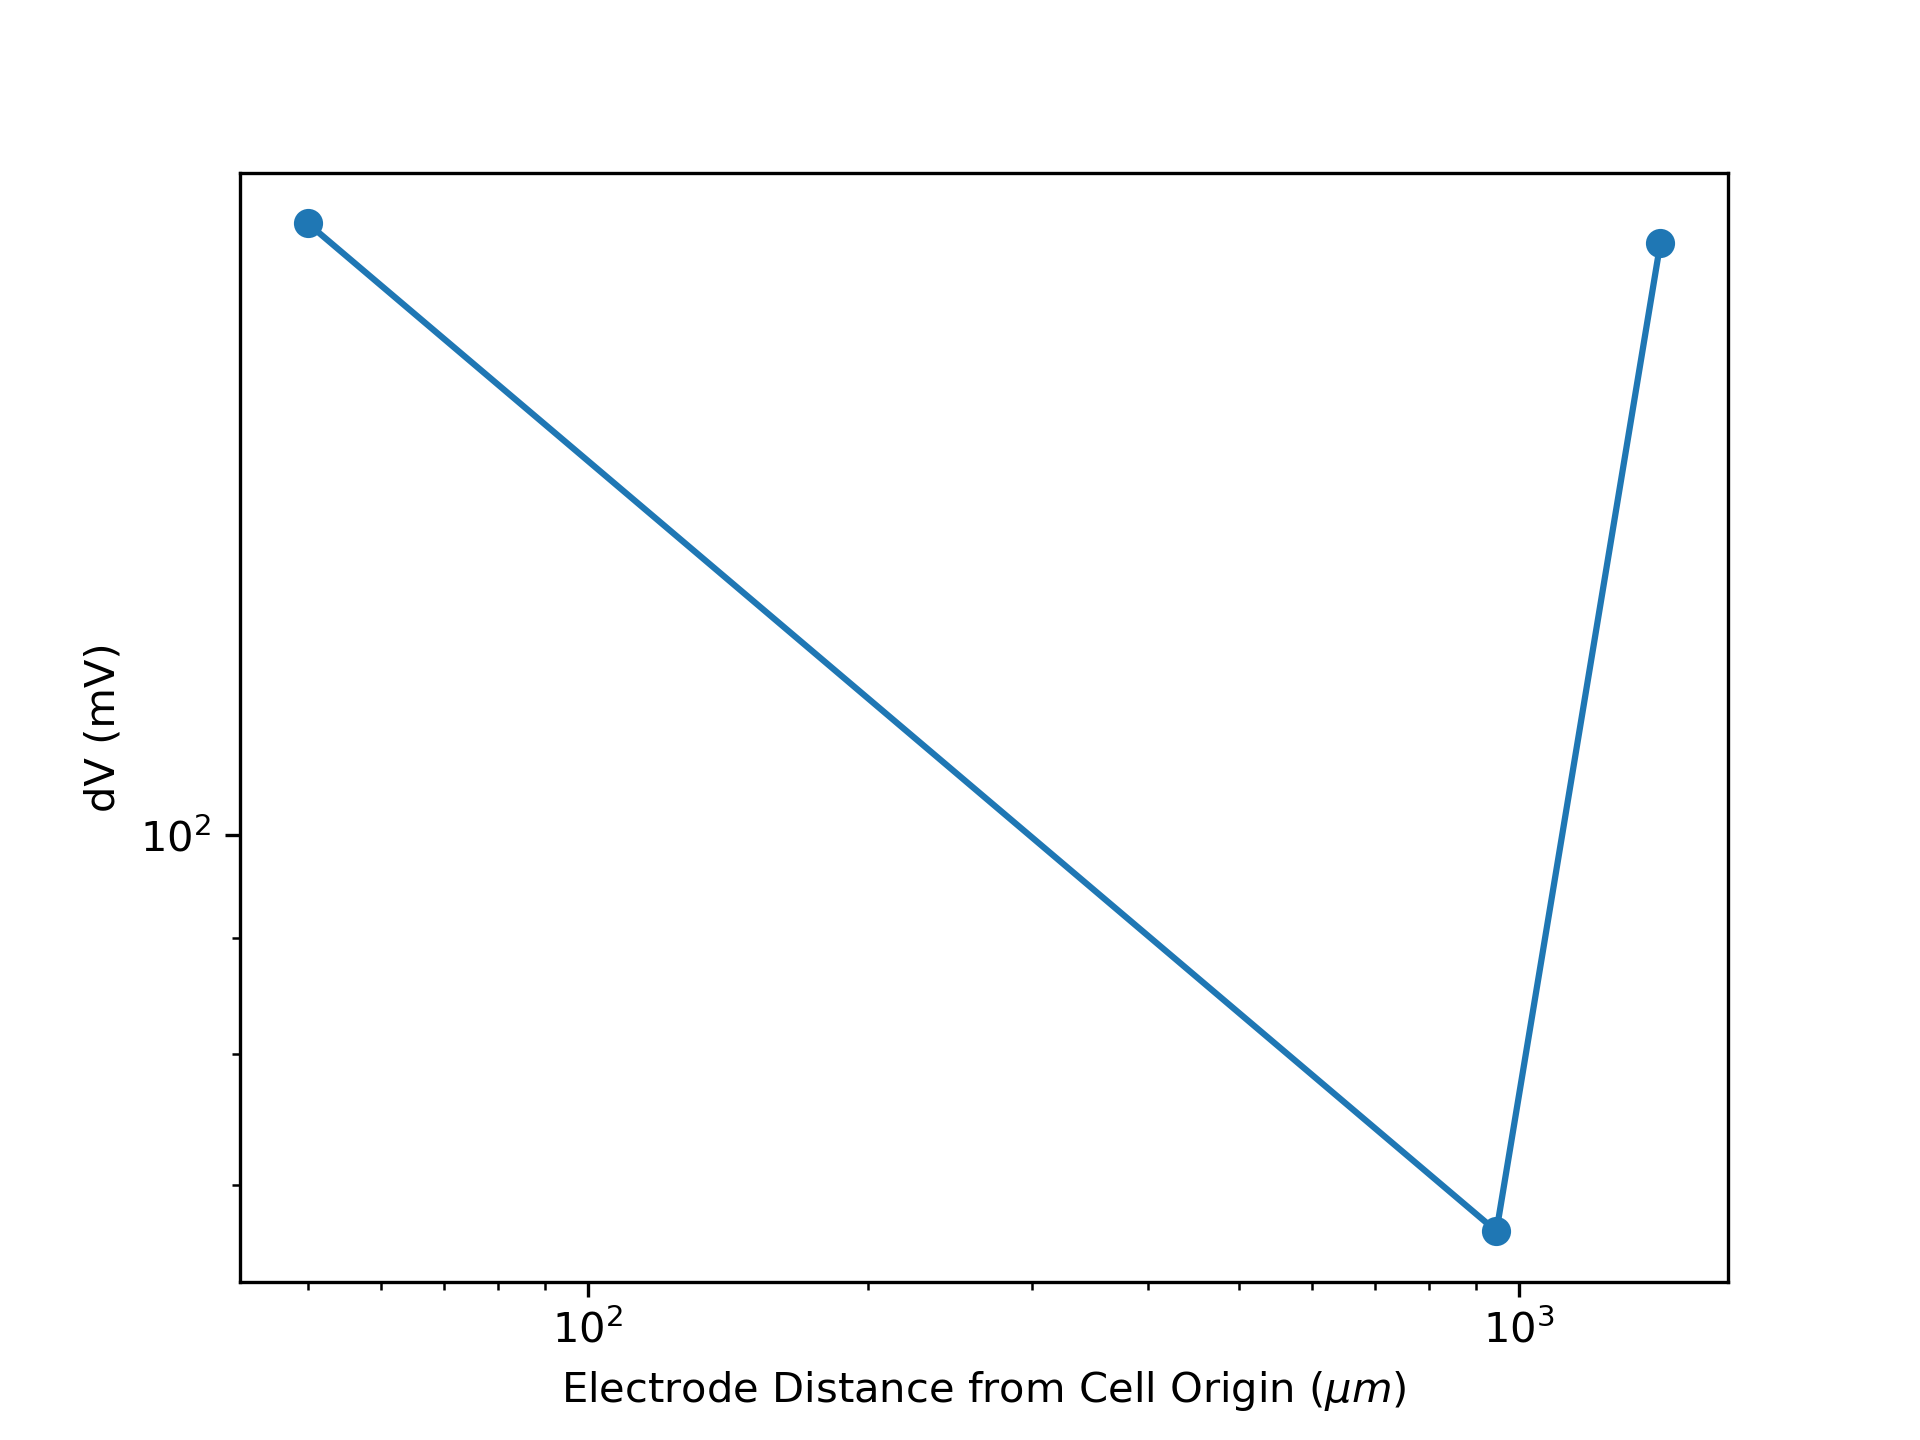
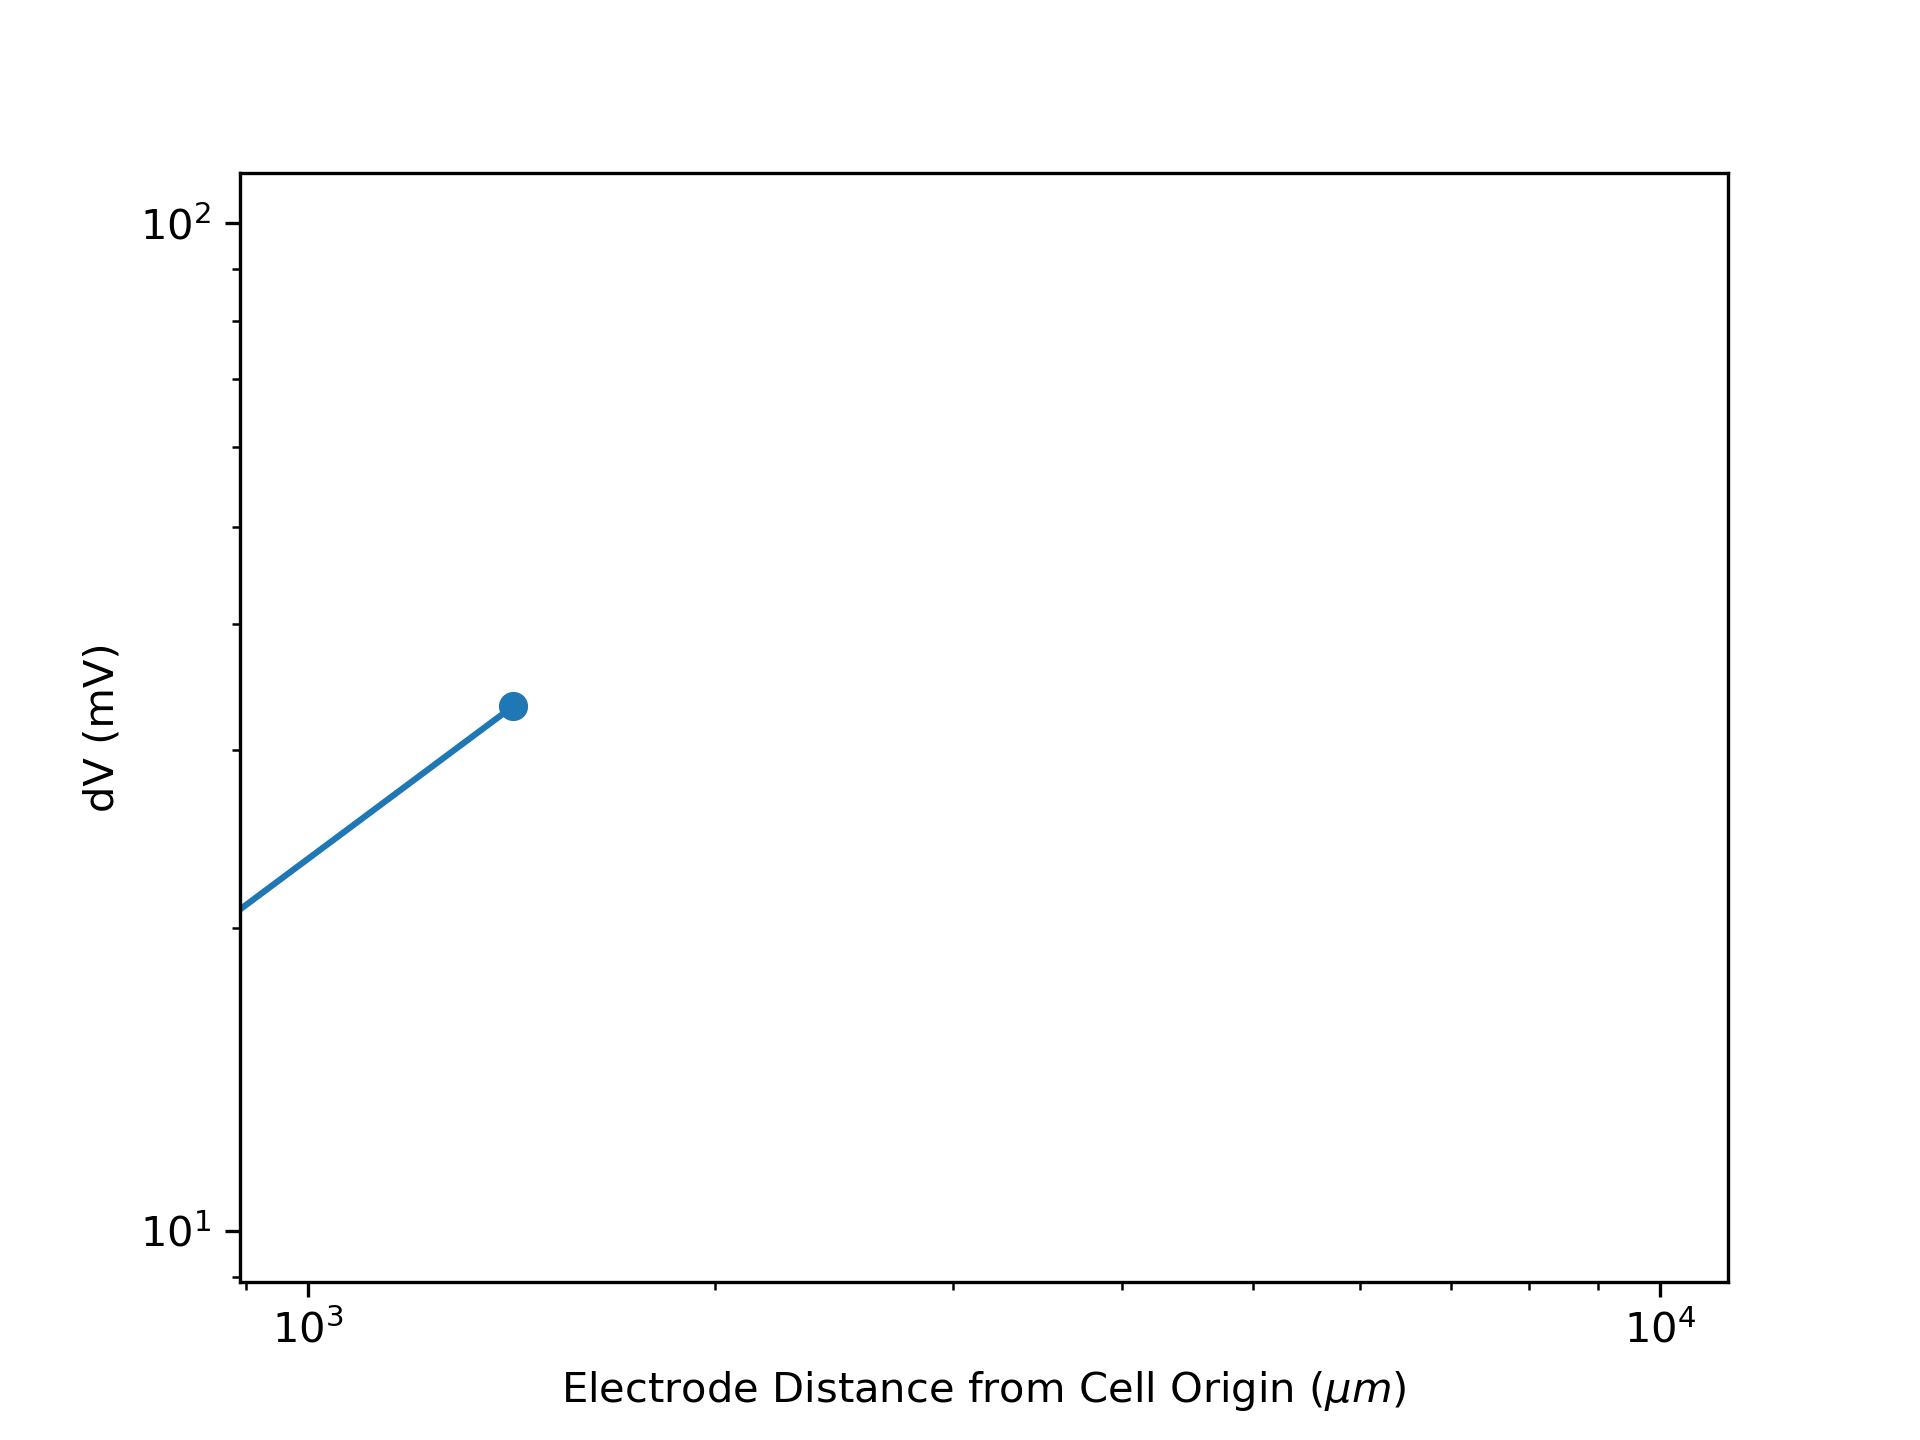
Changing simulation to only run one simulation per run of run_ext_sim(), added return sim_name(), separated out set_electrode_pos from class

diff --git a/main.py b/main.py
@@ -15,9 +15,6 @@ from mpi4py import MPI
 """
  transmembrane current i soma/utvalgte punkter som func av tid x
 membran pot som func av tid
-
- snapshots ved start og stop
-
 """
 
 
@@ -37,6 +34,11 @@ class ExternalPotentialSim:
         self.cell_dist_to_top = cell_params['cell_dist_to_top']
         self.x_shift = cell_params['x_shift']
         self.z_rot = cell_params['z_rot']
+
+    def return_sim_name(self):
+        sim_name = f'{self.cell_name}_x_shift={self.x_shift}_z_rot={self.z_rot}_{self.amp}mA_elec_pos={elec_pos}'
+
+        return sim_name
 
     def return_cell(self, cell_models_folder, z=-3, passive=True):
 
@@ -123,36 +125,9 @@ class ExternalPotentialSim:
 
         for i in range(com_coords.shape[0]):
             x, y, z = com_coords[i, :]
-            print(i, cell.get_closest_idx(x, y, z))
             measure_pnts.append(cell.get_closest_idx(x, y, z))
 
         self.measure_pnts = np.array(measure_pnts)
-
-    def set_electrode_pos(self, cell, elec_positions=np.array([])):
-        """
-        Parameters:
-        cell: LFPy Cell object
-        elec_positions: Electrode positions as a numpy array
-
-        Returns:
-
-        """
-
-        # Automatically setting electrode at a given distance from the measurement points
-        if elec_positions.size == 0:
-
-            mp = self.measure_pnts[0]
-            elec_positions = np.array([int(cell.x[mp].mean()) - 50, int(cell.y[mp].mean()),
-                                       int(cell.z[mp].mean())], dtype=float)
-
-            for mp in self.measure_pnts[1:]:
-
-                ep = np.array([int(cell.x[mp].mean()) - 50, int(cell.y[mp].mean()),
-                               int(cell.z[mp].mean())], dtype=float)
-
-                elec_positions = np.vstack((elec_positions, ep))
-
-        return elec_positions
 
     def _calc_point_sources_field(self, elec_params):
         pass
@@ -164,6 +139,7 @@ class ExternalPotentialSim:
         Returns:
         """
         self.elec_params = elec_params
+        self.elec_pos = elec_params['positions']
         self.amp = elec_params['pulse_amp']  # External current amplitide
         # Electrode position
         self.x0, self.y0, self.z0 = elec_params['positions']
@@ -222,44 +198,36 @@ class ExternalPotentialSim:
     def find_time_constant(self):
         pass
 
-    def run_ext_sim(self, cell_models_folder, elec_params, current_amps,  com_coords, stop_time, elec_positions=np.array([]), passive=False):
+    def run_ext_sim(self, cell_models_folder, elec_params, I,  com_coords, stop_time, elec_pos, idx, passive=False):
         """
         Move cell inside loops of amplitude and postion
         """
 
-        cell_rot = [-3, 6]
-        self.cells = []
-        for z in cell_rot:
+        # cell_rot = [-3, -6]
+        # for z in cell_rot:
+        elec_params['pulse_amp'] = I
+        elec_params['positions'] = elec_pos
+        cell = self.return_cell(cell_models_folder, passive)
+        self.create_measure_points(cell, com_coords)
+        # elec_positions = self.set_electrode_pos(cell, elec_positions)
+        elec_dists = np.zeros((len(elec_pos), com_coords.shape[0]))
+        ss_pot = np.zeros(len(elec_pos))
+        dV = np.zeros(len(elec_pos))
 
-            cell = self.return_cell(cell_models_folder, z, passive)
-            self.create_measure_points(cell, com_coords)
-            elec_positions = self.set_electrode_pos(cell, elec_positions)
-            elec_dists = np.zeros((len(elec_positions), com_coords.shape[0]))
-            ss_pot = np.zeros(len(elec_positions))
-            dV = np.zeros(len(elec_positions))
+        self.extracellular_stimuli(cell, elec_params)
+        self.run_cell_simulation(cell)
+        self.plot_cellsim(cell)
+        self._find_steady_state(cell)
+        ss_pot[idx] = self.v_ss
+        self._dV(cell)
+        dV[idx] = self.dV
+        elec_dists[idx] = self._record_dist_to_electrode(com_coords)
 
-            for I in current_amps:
-
-                elec_params['pulse_amp'] = I
-
-                for idx, pos in enumerate(elec_positions):
-                    elec_params['positions'] = pos
-                    self.extracellular_stimuli(cell, elec_params)
-                    self.run_cell_simulation(cell)
-                    self.plot_cellsim(cell)
-                    self._find_steady_state(cell)
-                    ss_pot[idx] = self.v_ss
-                    self._dV(cell)
-                    dV[idx] = self.dV
-                    elec_dists[idx] = self._record_dist_to_electrode(
-                        com_coords)
-
-            self.plot_steady_state(elec_dists[:, 0], ss_pot)
-            self.plot_dV(elec_dists[:, 0], dV)
-            self.create_measure_points(cell, com_coords)
-            # self.cells.append(cell)
-            cell.strip_hoc_objects()
-            cell.__del__()
+        self.plot_steady_state(elec_dists[:, 0], ss_pot)
+        self.plot_dV(elec_dists[:, 0], dV)
+        self.create_measure_points(cell, com_coords)
+        # cell.strip_hoc_objects()
+        cell.__del__()
 
     def run_current_sim(self, cell_models_folder, elec_params, current_amps, positions, stop_time, passive=False):
         self.return_cell(cell_models_folder)

diff --git a/hallermann_single_source_pulse.py b/hallermann_single_source_pulse.py
@@ -18,9 +18,9 @@ extPotSim = ExternalPotentialSim(cellsim_Hallermann_params)
 
 # Test parameters
 # current_amps = [2e4, -2e4, 1e4, -1e4, -8e3, 8e3, -7e3, 7e3, -5e3, 5e3]  # uA
-elec_positions = np.array([np.array([-50, 0, -200], dtype=float),
-                           np.array([60, 126, 659], dtype=float),
-                           np.array([-301, 39, 879], dtype=float)])
+elec_positions = np.array([[-50, 0, -200],
+                           [60, 126, 659],
+                           [-301, 39, 879]])
 
 
 current_amps = [1e4, -1e4]
@@ -32,8 +32,31 @@ measure_coordinates = np.array(
     [[-0, 0, - 200], [10, 126, 659], [-251, 39, 879]])
 
 
+def set_electrode_pos(measure_coordinates):
+    """
+    Sets electrodes at a given distance from the measurement coordinates
+    Parameters:
+    measure_coordinates
+    Returns:
+    """
+    elec_positions = np.copy(measure_coordinates)
+    for mc in range(elec_positions.shape[0]):
+
+        elec_positions[mc][0] -= 50
+
+    return elec_positions
+
+
+ep = set_electrode_pos(measure_coordinates)
 start = time.time()
-extPotSim.run_ext_sim(cell_models_folder, monophasic_pulse_params,
-                      current_amps, measure_coordinates, 20)
+
+for I in current_amps:
+
+    for idx, pos in enumerate(elec_positions):
+
+        extPotSim.run_ext_sim(cell_models_folder, monophasic_pulse_params,
+                              I, measure_coordinates, 20, pos, idx)
+        # Plot Sim
+
 end = time.time()
 print(f'Time to execute {end - start} seconds')
